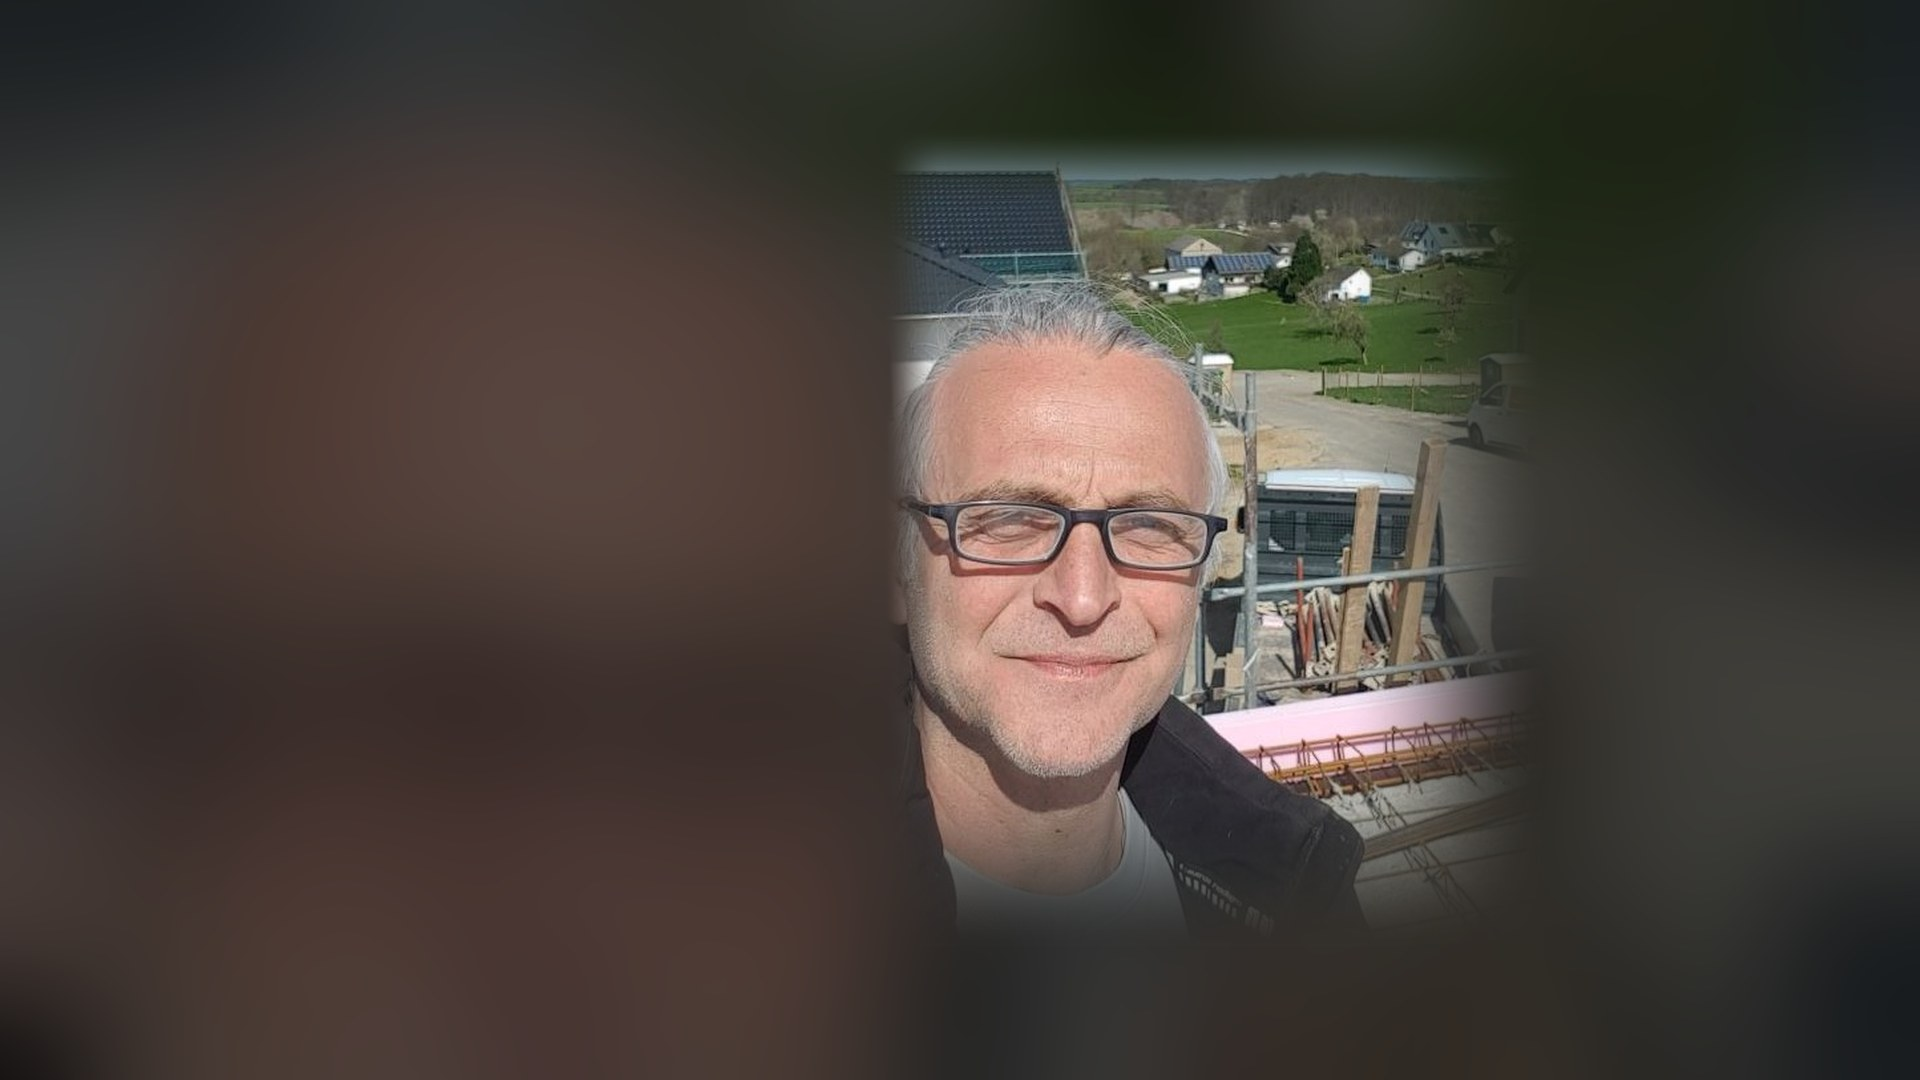
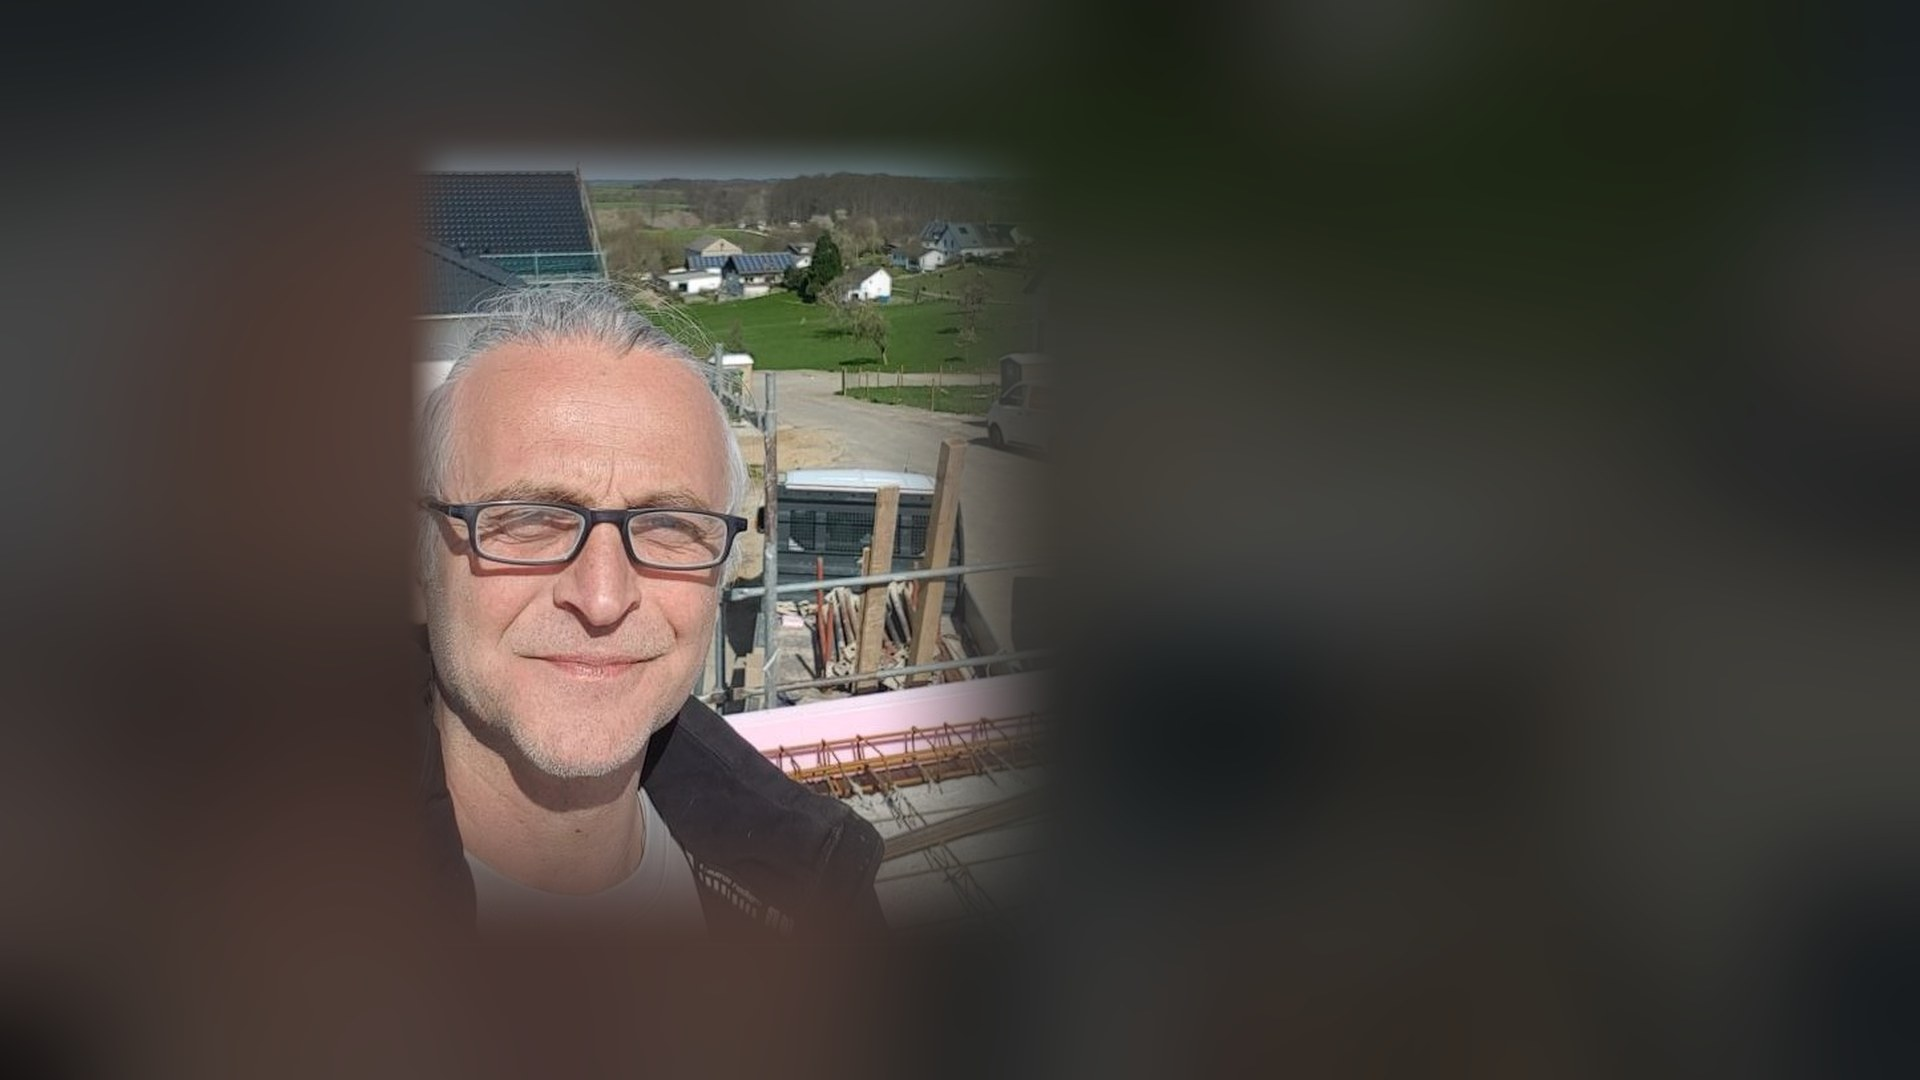
vorschau: claude/home-page-rdyw91

diff --git a/vorschau/claude-home-page-rdyw91/index.html b/vorschau/claude-home-page-rdyw91/index.html
@@ -196,10 +196,9 @@
     .hero-plan-img{animation:none;transform:scale(1.08);}
     .hero-sweep{display:none;}
   }
-  /* Der Verlauf haelt den Text links lesbar, laesst das Foto aber nach
-     rechts hin deutlich durch. Etwas heller und einen Tick waermer als
-     zuvor, damit der Bereich freundlicher wirkt. */
-  .hero-overlay{position:absolute;inset:0;background:linear-gradient(90deg, rgba(26,34,42,.88) 0%, rgba(26,34,42,.66) 55%, rgba(26,34,42,.22) 100%);}
+  /* Der Verlauf haelt den Text rechts lesbar, laesst das Foto aber nach
+     links hin deutlich durch -- dort steht das Gesicht. */
+  .hero-overlay{position:absolute;inset:0;background:linear-gradient(270deg, rgba(26,34,42,.88) 0%, rgba(26,34,42,.66) 55%, rgba(26,34,42,.22) 100%);}
   /* Auf schmalen Schirmen laeuft der Text ueber die ganze Breite, also auch
      ueber die helle rechte Seite. Dort deckt der Verlauf gleichmaessiger ab,
      sonst wird die Schrift auf hellen Motiven unlesbar. */
@@ -208,6 +207,15 @@
   }
   .hero-techlines{position:absolute;left:0;right:0;bottom:0;height:64px;opacity:.45;pointer-events:none;}
   .hero-content{position:relative;z-index:2;padding:clamp(18px,calc(var(--sh) * 5.6),64px) clamp(20px,5vw,72px);width:100%;}
+  /* Foto links, Schrift rechts. Die Bloecke ruecken an den rechten Rand,
+     die Zeilen darin bleiben linksbuendig -- das liest sich besser als
+     Flattersatz nach links. Nur auf breiten Schirmen; schmalere zeigen den
+     Text ohnehin ueber die ganze Breite. */
+  @media(min-width:1001px){
+    .hero-content{display:flex;flex-direction:column;align-items:flex-end;}
+    .hero-projectline,
+    .hero-brands{width:min(100%, 56ch);}
+  }
   .hero-eyebrow{display:flex;align-items:center;gap:10px;font-family:var(--font-heading);font-weight:600;font-size:12.5px;letter-spacing:.14em;text-transform:uppercase;color:var(--yellow);margin-bottom:clamp(7px,calc(var(--sh) * 1.7),16px);}
   .hero-eyebrow .dot{width:8px;height:8px;background:var(--green-light);display:inline-block;animation:ep-pulse 2.4s ease-in-out infinite;}
   .hero h1{font-family:var(--font-heading);font-weight:700;font-size:clamp(30px,min(5.4vw, calc(var(--sh) * 6.2)),62px);line-height:1.04;letter-spacing:-.025em;color:#fff;max-width:20ch;margin-bottom:clamp(7px,calc(var(--sh) * 1.7),16px);}
@@ -697,7 +705,7 @@
 
 <section id="hero" class="hero">
   <div class="hero-plan" aria-hidden="true">
-    <div class="hero-plan-img an" data-bild="hero-0.jpg" style="background-image:url('hero-0.jpg');"></div>
+    <div class="hero-plan-img an" data-bild="hero-0.jpg" style="background-image:url('hero-0.jpg');background-position:30% center;"></div>
     <div class="hero-plan-img" data-bild="hero-1.jpg"></div>
     <div class="hero-plan-img" data-bild="hero-2.jpg"></div>
     <div class="hero-plan-img" data-bild="hero-3.jpg"></div>
